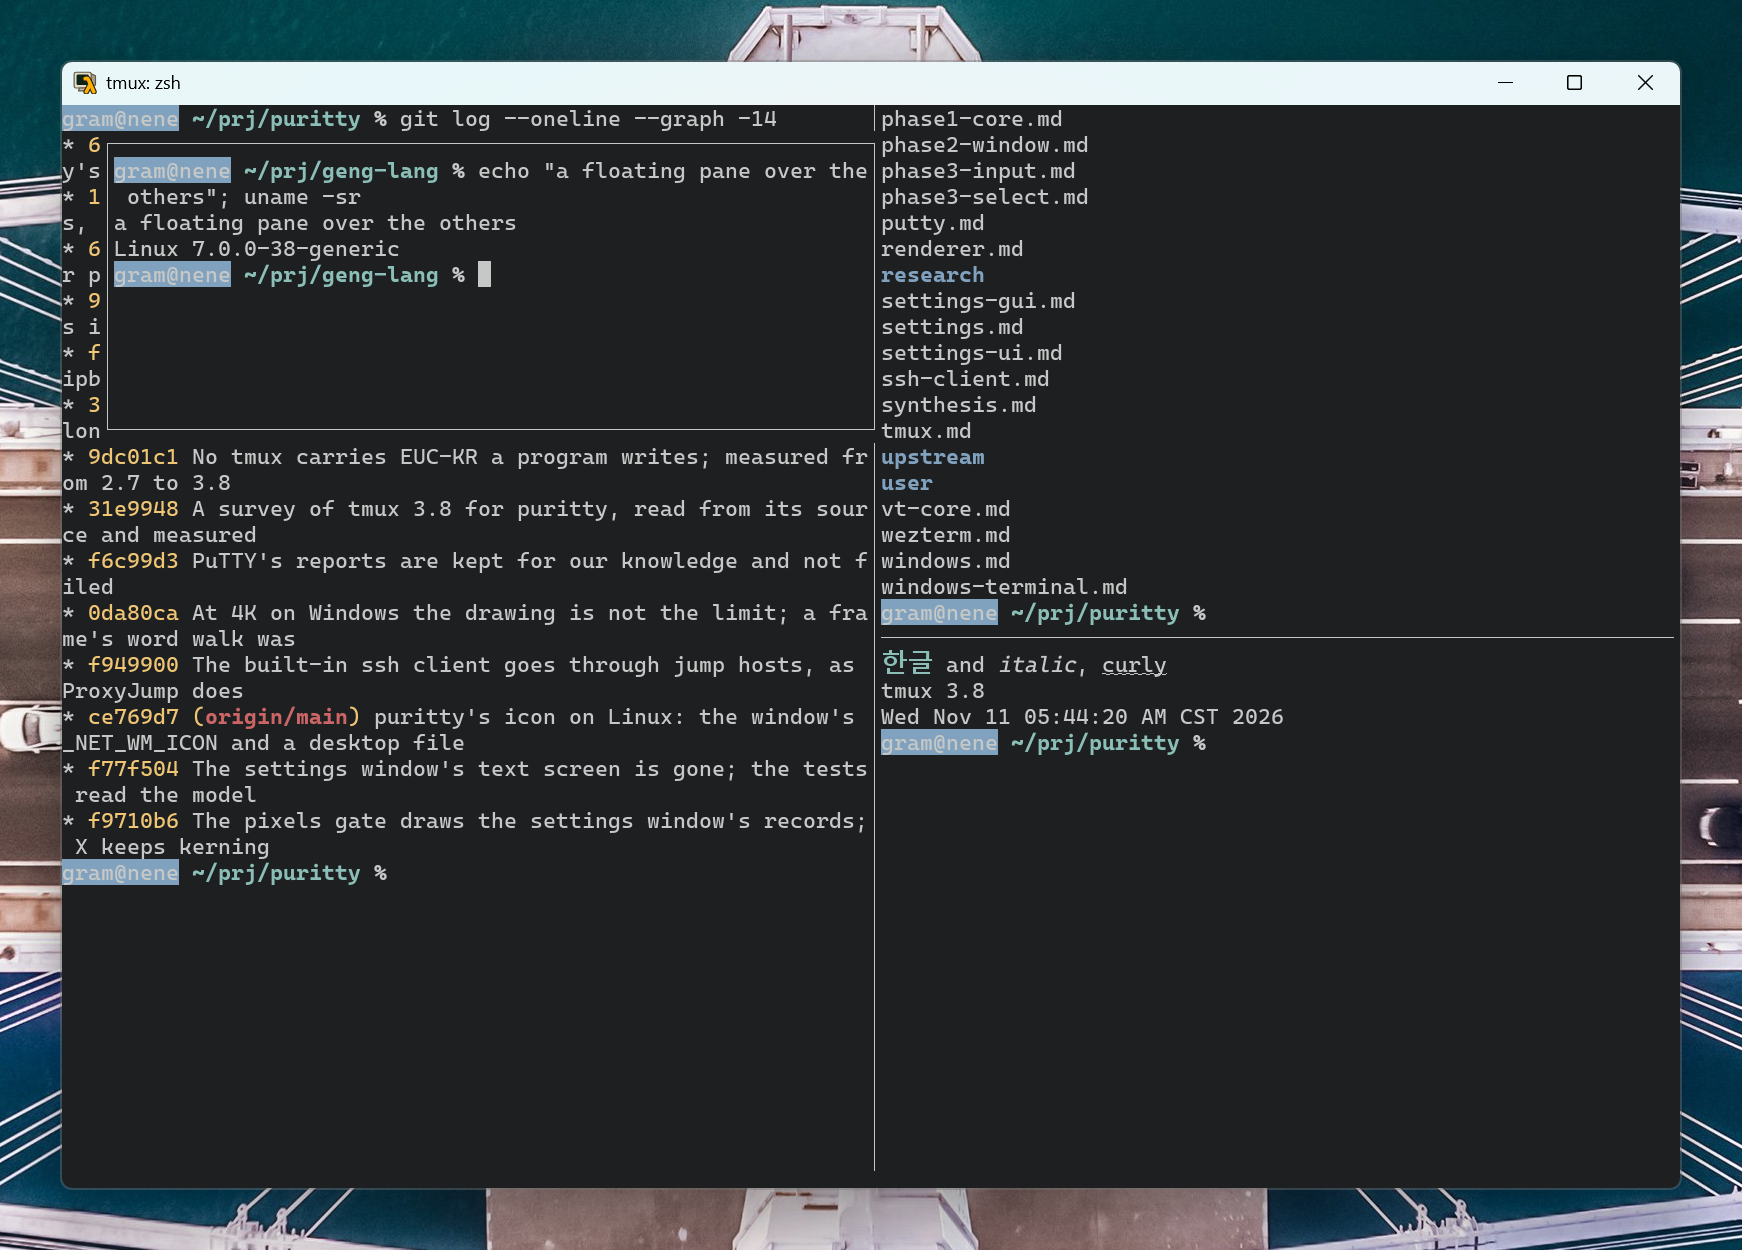
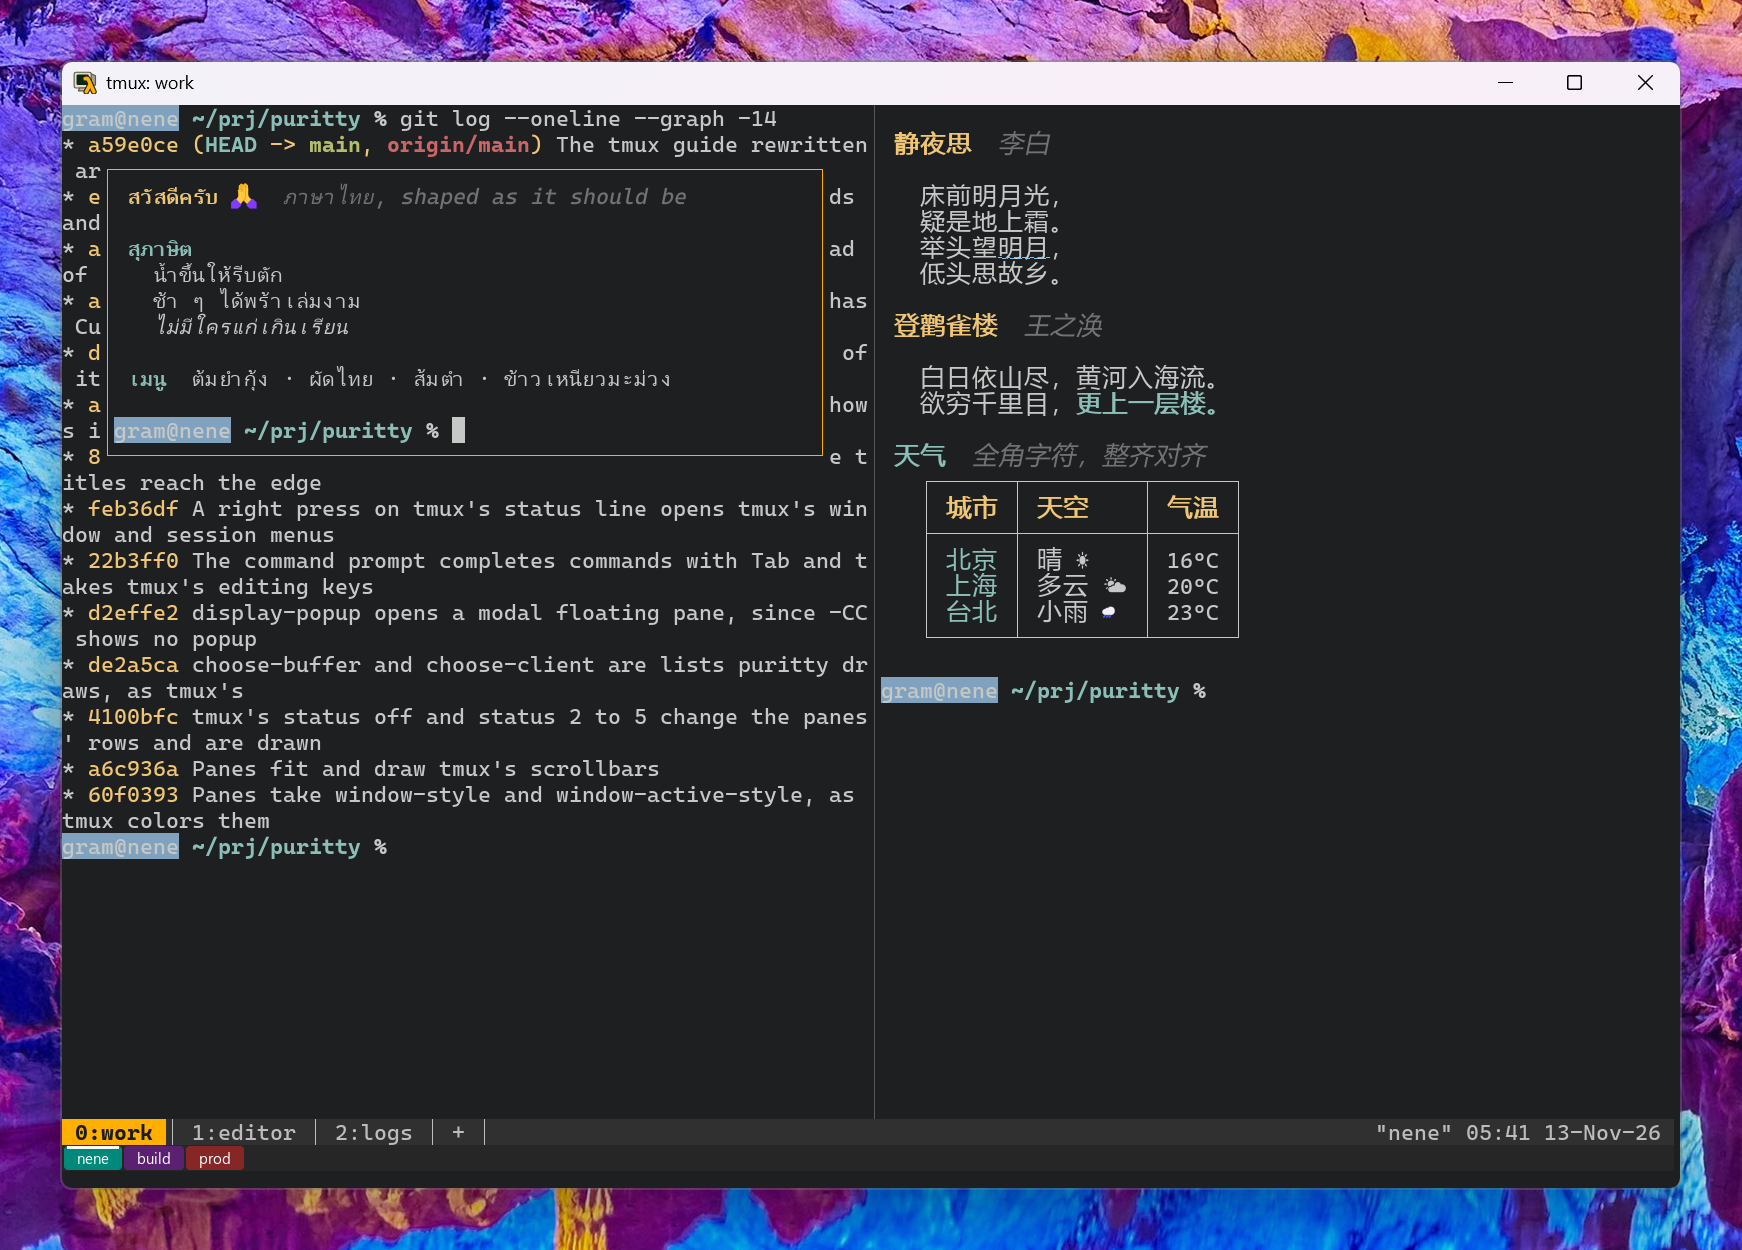
The home page's picture again: Chinese and Thai under tmux -CC, and three colored tabs
docs/images/tmux-on-windows.png taken again on Windows 11 as before
(centered on the desktop, a 60-pixel margin with no desktop icon in it),
now with puritty's own tabs: three restored ssh tabs to nene in teal,
purple and red, the first attached to tmux 3.8 by tmux -CC. The left
pane keeps the git log; the right shows two Tang poems (李白's 静夜思,
王之涣's 登鹳雀楼) and a table in Chinese, in Simplified forms; the
floating pane shows Thai, shaped. The home page's and the tmux guide's
descriptions say so. How it was made, with the scripts, is in
docs/images/tmux-on-windows/.

Claude-Session: https://claude.ai/code/session_01N5bRgf8hBHqYeVQ1cSQUfA

Changed region(s): [[0.0, 0.0, 1.0, 1.0], [0.31, 0.2808, 0.372, 0.312], [0.186, 0.2808, 0.217, 0.312]]

diff --git a/docs/images/tmux-on-windows/text.py b/docs/images/tmux-on-windows/text.py
@@ -1,0 +1,51 @@
+"""The panes' text for tmux-on-windows.png (README.md beside it): Chinese
+(李白's 静夜思, 王之涣's 登鹳雀楼, a table) and Thai, as zh.ans and th.ans in
+the directory named."""
+import unicodedata, sys
+from pathlib import Path
+D = Path(sys.argv[1])
+E = "\x1b["
+def sgr(*c): return E + ";".join(map(str, c)) + "m"
+R = sgr(0)
+def w(s):
+    return sum(0 if unicodedata.category(ch) in ("Mn", "Me", "Cf") else (2 if unicodedata.east_asian_width(ch) in ("W", "F") else 1) for ch in s)
+title, dim, accent = sgr(1, 33), sgr(2, 3), sgr(1, 36)
+curly = E + "4:3m" + E + "58:2::120:200:255m"
+zh = ["",
+      f" {title}静夜思{R}  {dim}李白{R}",
+      "",
+      "   床前明月光，",
+      "   疑是地上霜。",
+      f"   举头望{curly}明月{R}，",
+      "   低头思故乡。",
+      "",
+      f" {title}登鹳雀楼{R}  {dim}王之涣{R}",
+      "",
+      "   白日依山尽，黄河入海流。",
+      f"   欲穷千里目，{sgr(1,36)}更上一层楼。{R}",
+      "",
+      f" {accent}天气{R}  {dim}全角字符，整齐对齐{R}"]
+rows = [("城市", "天空", "气温"), ("北京", "晴 ☀", "16°C"), ("上海", "多云 ⛅", "20°C"), ("台北", "小雨 🌧", "23°C")]
+ws = [max(w(r[i]) for r in rows) + 2 for i in range(3)]
+zh.append("   ┌" + "┬".join("─" * x for x in ws) + "┐")
+for k, r in enumerate(rows):
+    cells = []
+    for i, c in enumerate(r):
+        st = sgr(1, 33) if k == 0 else (sgr(36) if i == 0 else "")
+        cells.append(" " + st + c + (R if st else "") + " " * (ws[i] - 1 - w(c)))
+    zh.append("   │" + "│".join(cells) + "│")
+    if k == 0:
+        zh.append("   ├" + "┼".join("─" * x for x in ws) + "┤")
+zh.append("   └" + "┴".join("─" * x for x in ws) + "┘")
+zh.append("")
+(D / "zh.ans").write_text("\r\n".join(zh) + "\r\n")
+th = [f" {title}สวัสดีครับ{R} 🙏  {dim}ภาษาไทย, shaped as it should be{R}",
+      "",
+      f" {accent}สุภาษิต{R}",
+      "   น้ำขึ้นให้รีบตัก",
+      "   ช้า ๆ ได้พร้าเล่มงาม",
+      f"   {sgr(3)}ไม่มีใครแก่เกินเรียน{R}",
+      "",
+      f" {accent}เมนู{R}  ต้มยำกุ้ง · ผัดไทย · ส้มตำ · ข้าวเหนียวมะม่วง",
+      ""]
+(D / "th.ans").write_text("\r\n".join(th) + "\r\n")

diff --git a/docs/images/tmux-on-windows/README.md b/docs/images/tmux-on-windows/README.md
@@ -1,0 +1,32 @@
+# The home page's picture, `tmux-on-windows.png`
+
+puritty on Windows 11 (beelink1, in its user's desktop session), with three
+restored ssh tabs to nene in their own colors; the first runs `tmux -CC
+attach` on a tmux 3.8 session made for it: `git log` on the left, two Tang
+poems and a table in Chinese on the right, Thai in a floating pane.
+
+1. On nene, write the panes' text and make the session (its own socket):
+
+   ```sh
+   D=<a scratch directory>; python3 text.py $D      # zh.ans, th.ans
+   T=(/nix/store/k111lnbq1vw0k4v4cjhi1iwp5lky3ryn-tmux-3.8/bin/tmux -L puritty-shot -f /dev/null)
+   env -u TMUX $T new-session -d -s shot -n work -x 124 -y 39 -c ~/prj/puritty
+   $T split-window -h -t shot:work -c ~/prj/puritty "sh -c 'cat $D/zh.ans; exec zsh'"
+   $T new-window -d -t shot -n editor; $T new-window -d -t shot -n logs
+   $T send-keys -t shot:work.0 "git log --oneline --graph -14" Enter
+   $T new-pane -t shot:work -x 56 -y 12 -X 3 -Y 2 -c ~/prj/puritty "sh -c 'cat $D/th.ans; exec zsh'"
+   ```
+
+2. Copy `app/puritty.exe` (`app/build-windows.sh`), `hero.toml`,
+   `saved.toml`, `hero.ps1` and `stop.ps1` to `C:\Users\yosup\geng-probe\hero`
+   and run `hero.ps1` in the desktop session with
+   `harness/windows/inSession.ps1 -Script`. It restores the three tabs
+   from `saved.toml` (its own `LOCALAPPDATA`, so the user's puritty is not
+   touched), centers the window on the desktop at 1640x1139 as before,
+   shows each tab once (so none is marked for printing while away), types
+   the attach into the first, and saves the window with a 60-pixel margin
+   (`hero.png`) and the whole desktop (`desktop.png`, to see that no
+   desktop icon is in the margin).
+
+3. `stop.ps1` ends that puritty, by its id; `$T kill-server` ends the
+   session.

diff --git a/site/content/_index.md b/site/content/_index.md
@@ -6,8 +6,8 @@ headline = "A terminal that's fast, and just does things right"
 lede = "puritty runs on Linux and Windows. It draws tmux's panes as its own, carries its own ssh client, and is just as quick when it runs on another machine and draws on your desktop."
 status = "**Pre-release.** puritty is its author's daily terminal. It will be published with the first alpha of [Geng](https://geng-lang.org), the language it is written in; until then you build it from source."
 hero_image = "tmux-on-windows.png"
-hero_alt = "puritty on Windows 11, connected to a Linux host with its built-in ssh client, showing tmux 3.8 in control mode: three tiled panes and a floating pane over them"
-hero_caption = "On Windows 11, connected to Linux with puritty's own ssh client, running `tmux -CC attach`: tmux's tiled panes and a floating pane, drawn by puritty."
+hero_alt = "puritty on Windows 11 with three colored tabs, the first connected to Linux with puritty's own ssh client and attached to tmux 3.8 by tmux -CC: git history in the left pane, two Chinese poems and a table in the right one, and Thai in a floating pane over them"
+hero_caption = "On Windows 11, connected to Linux with puritty's own ssh client, running `tmux -CC attach`: tmux's panes and a floating pane, with Chinese and Thai, drawn by puritty, and three tabs of puritty's own."
 
 [[extra.features]]
 kicker = "tmux, natively"

diff --git a/docs/user/tmux.md b/docs/user/tmux.md
@@ -38,10 +38,11 @@ host = "build.example.com"
 command = "tmux -CC new -A -s main"
 ```
 
-![puritty on Windows 11, connected to a Linux host with its built-in ssh client, showing tmux 3.8 in control mode: three tiled panes and a floating pane in a box over them](../images/tmux-on-windows.png)
+![puritty on Windows 11 with three colored tabs, the first connected to Linux with puritty's own ssh client and attached to tmux 3.8 by tmux -CC: git history in the left pane, two Chinese poems and a table in the right one, and Thai in a floating pane over them](../images/tmux-on-windows.png)
 
 *On Windows 11, connected to Linux with puritty's own ssh client, running
-`tmux -CC attach`: three tiled panes, and a floating pane over them.*
+`tmux -CC attach`: tmux's windows as tabs, and below them three tabs of
+puritty's own, each in its color.*
 
 ### Which tmux
 
